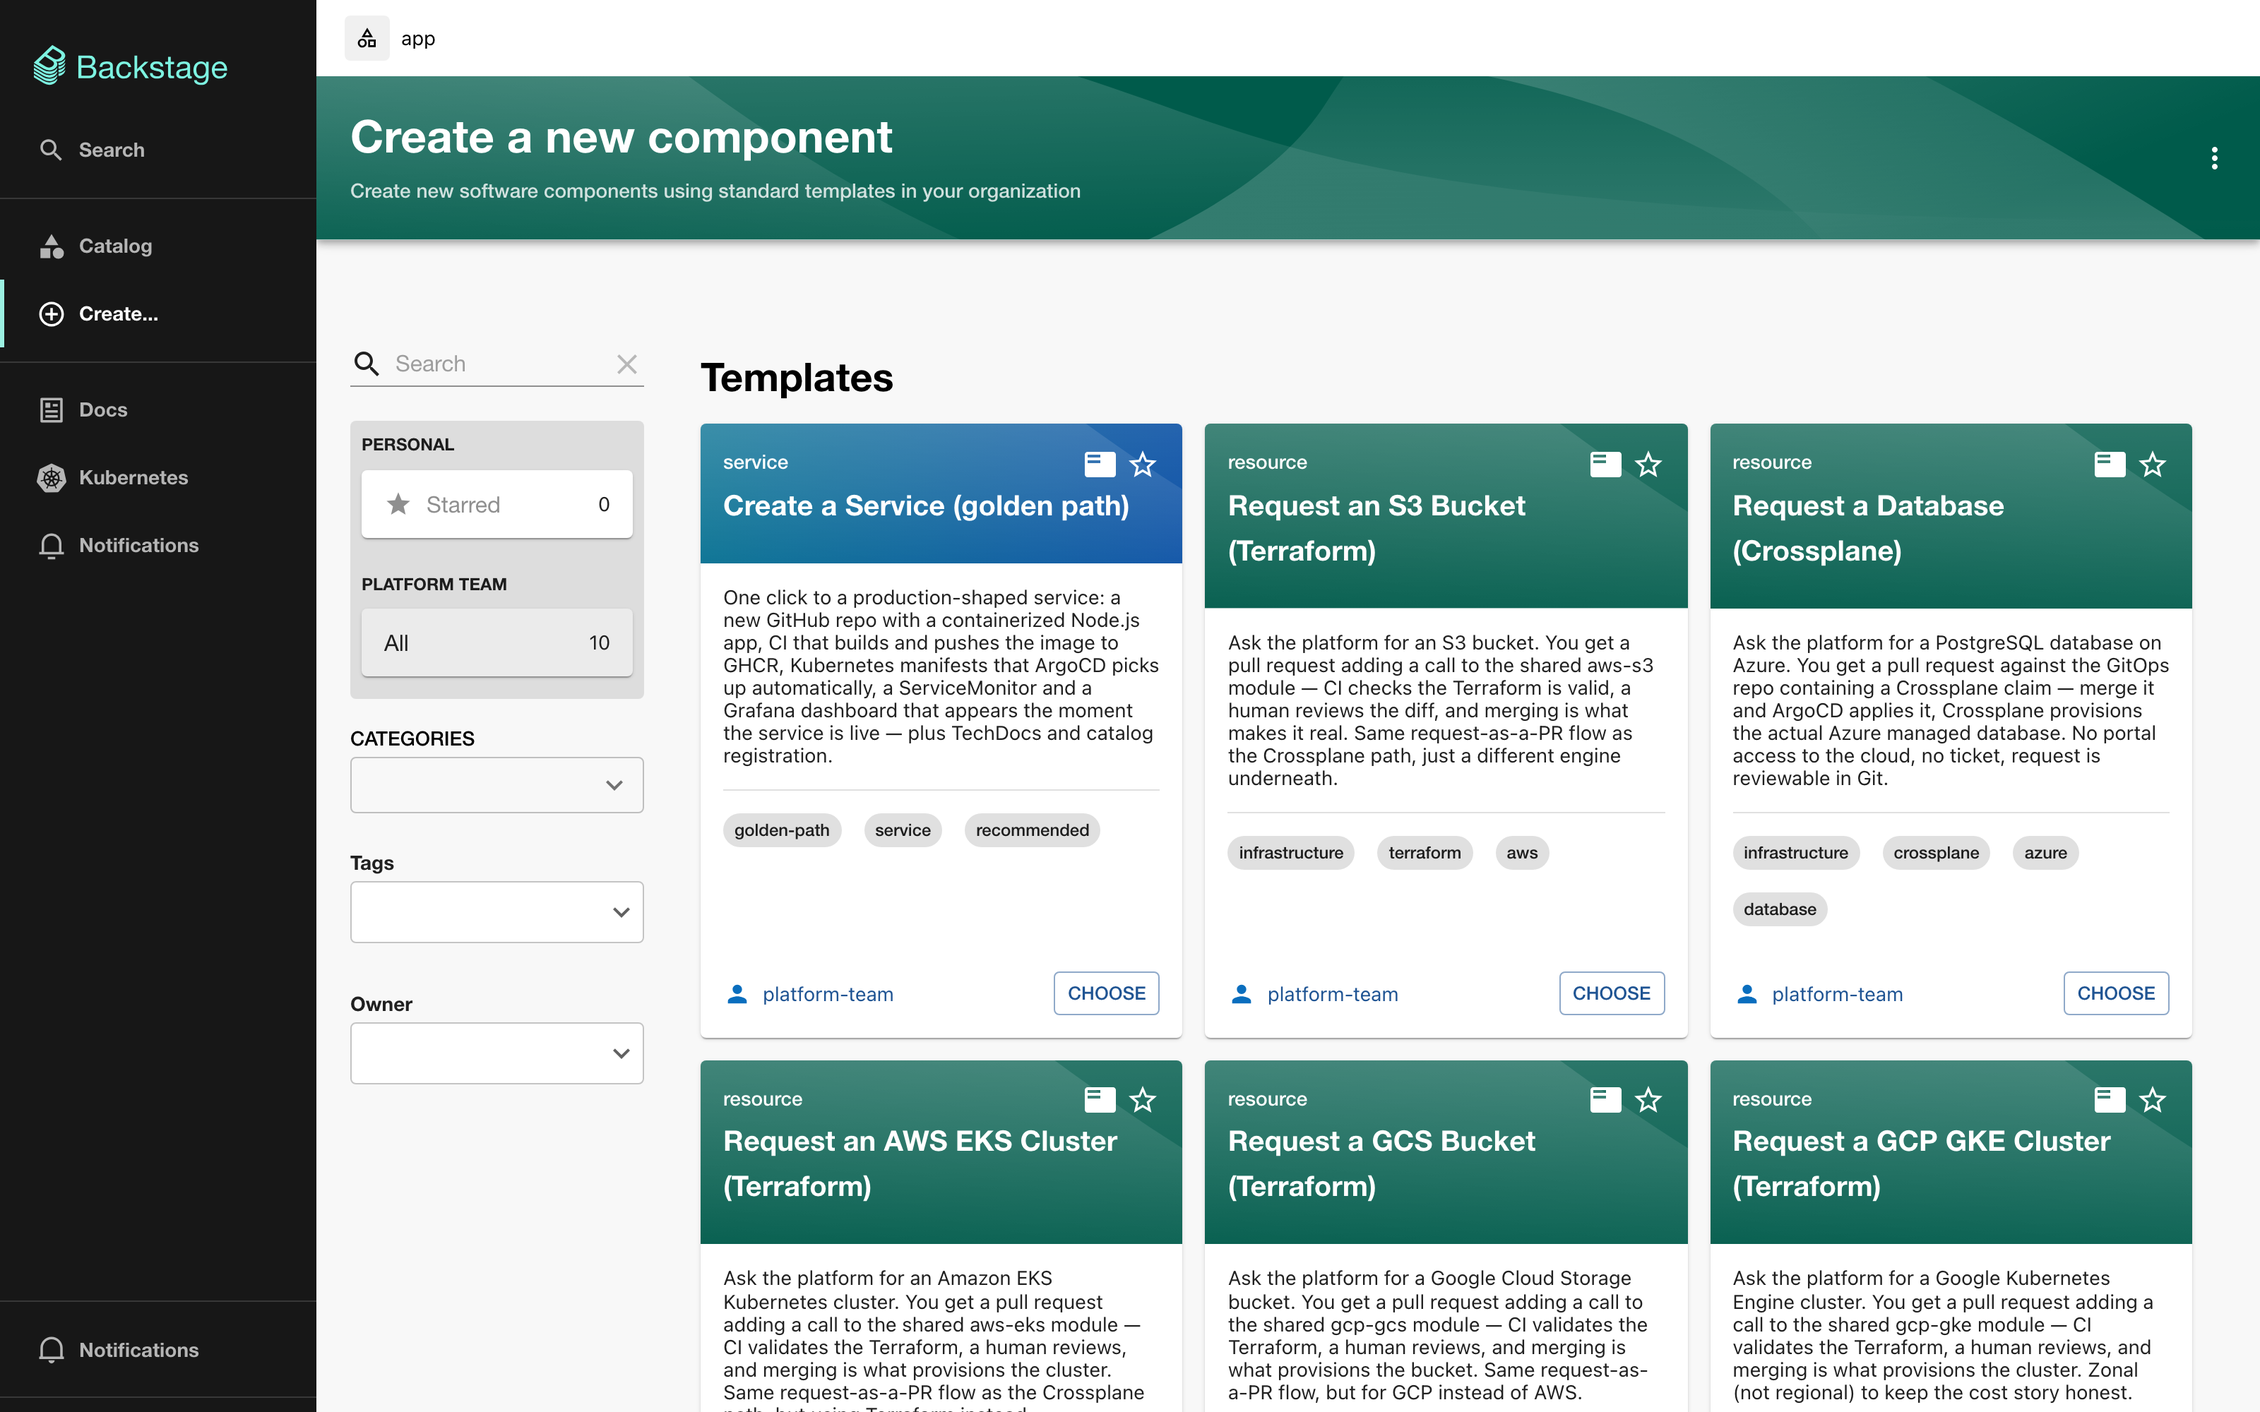
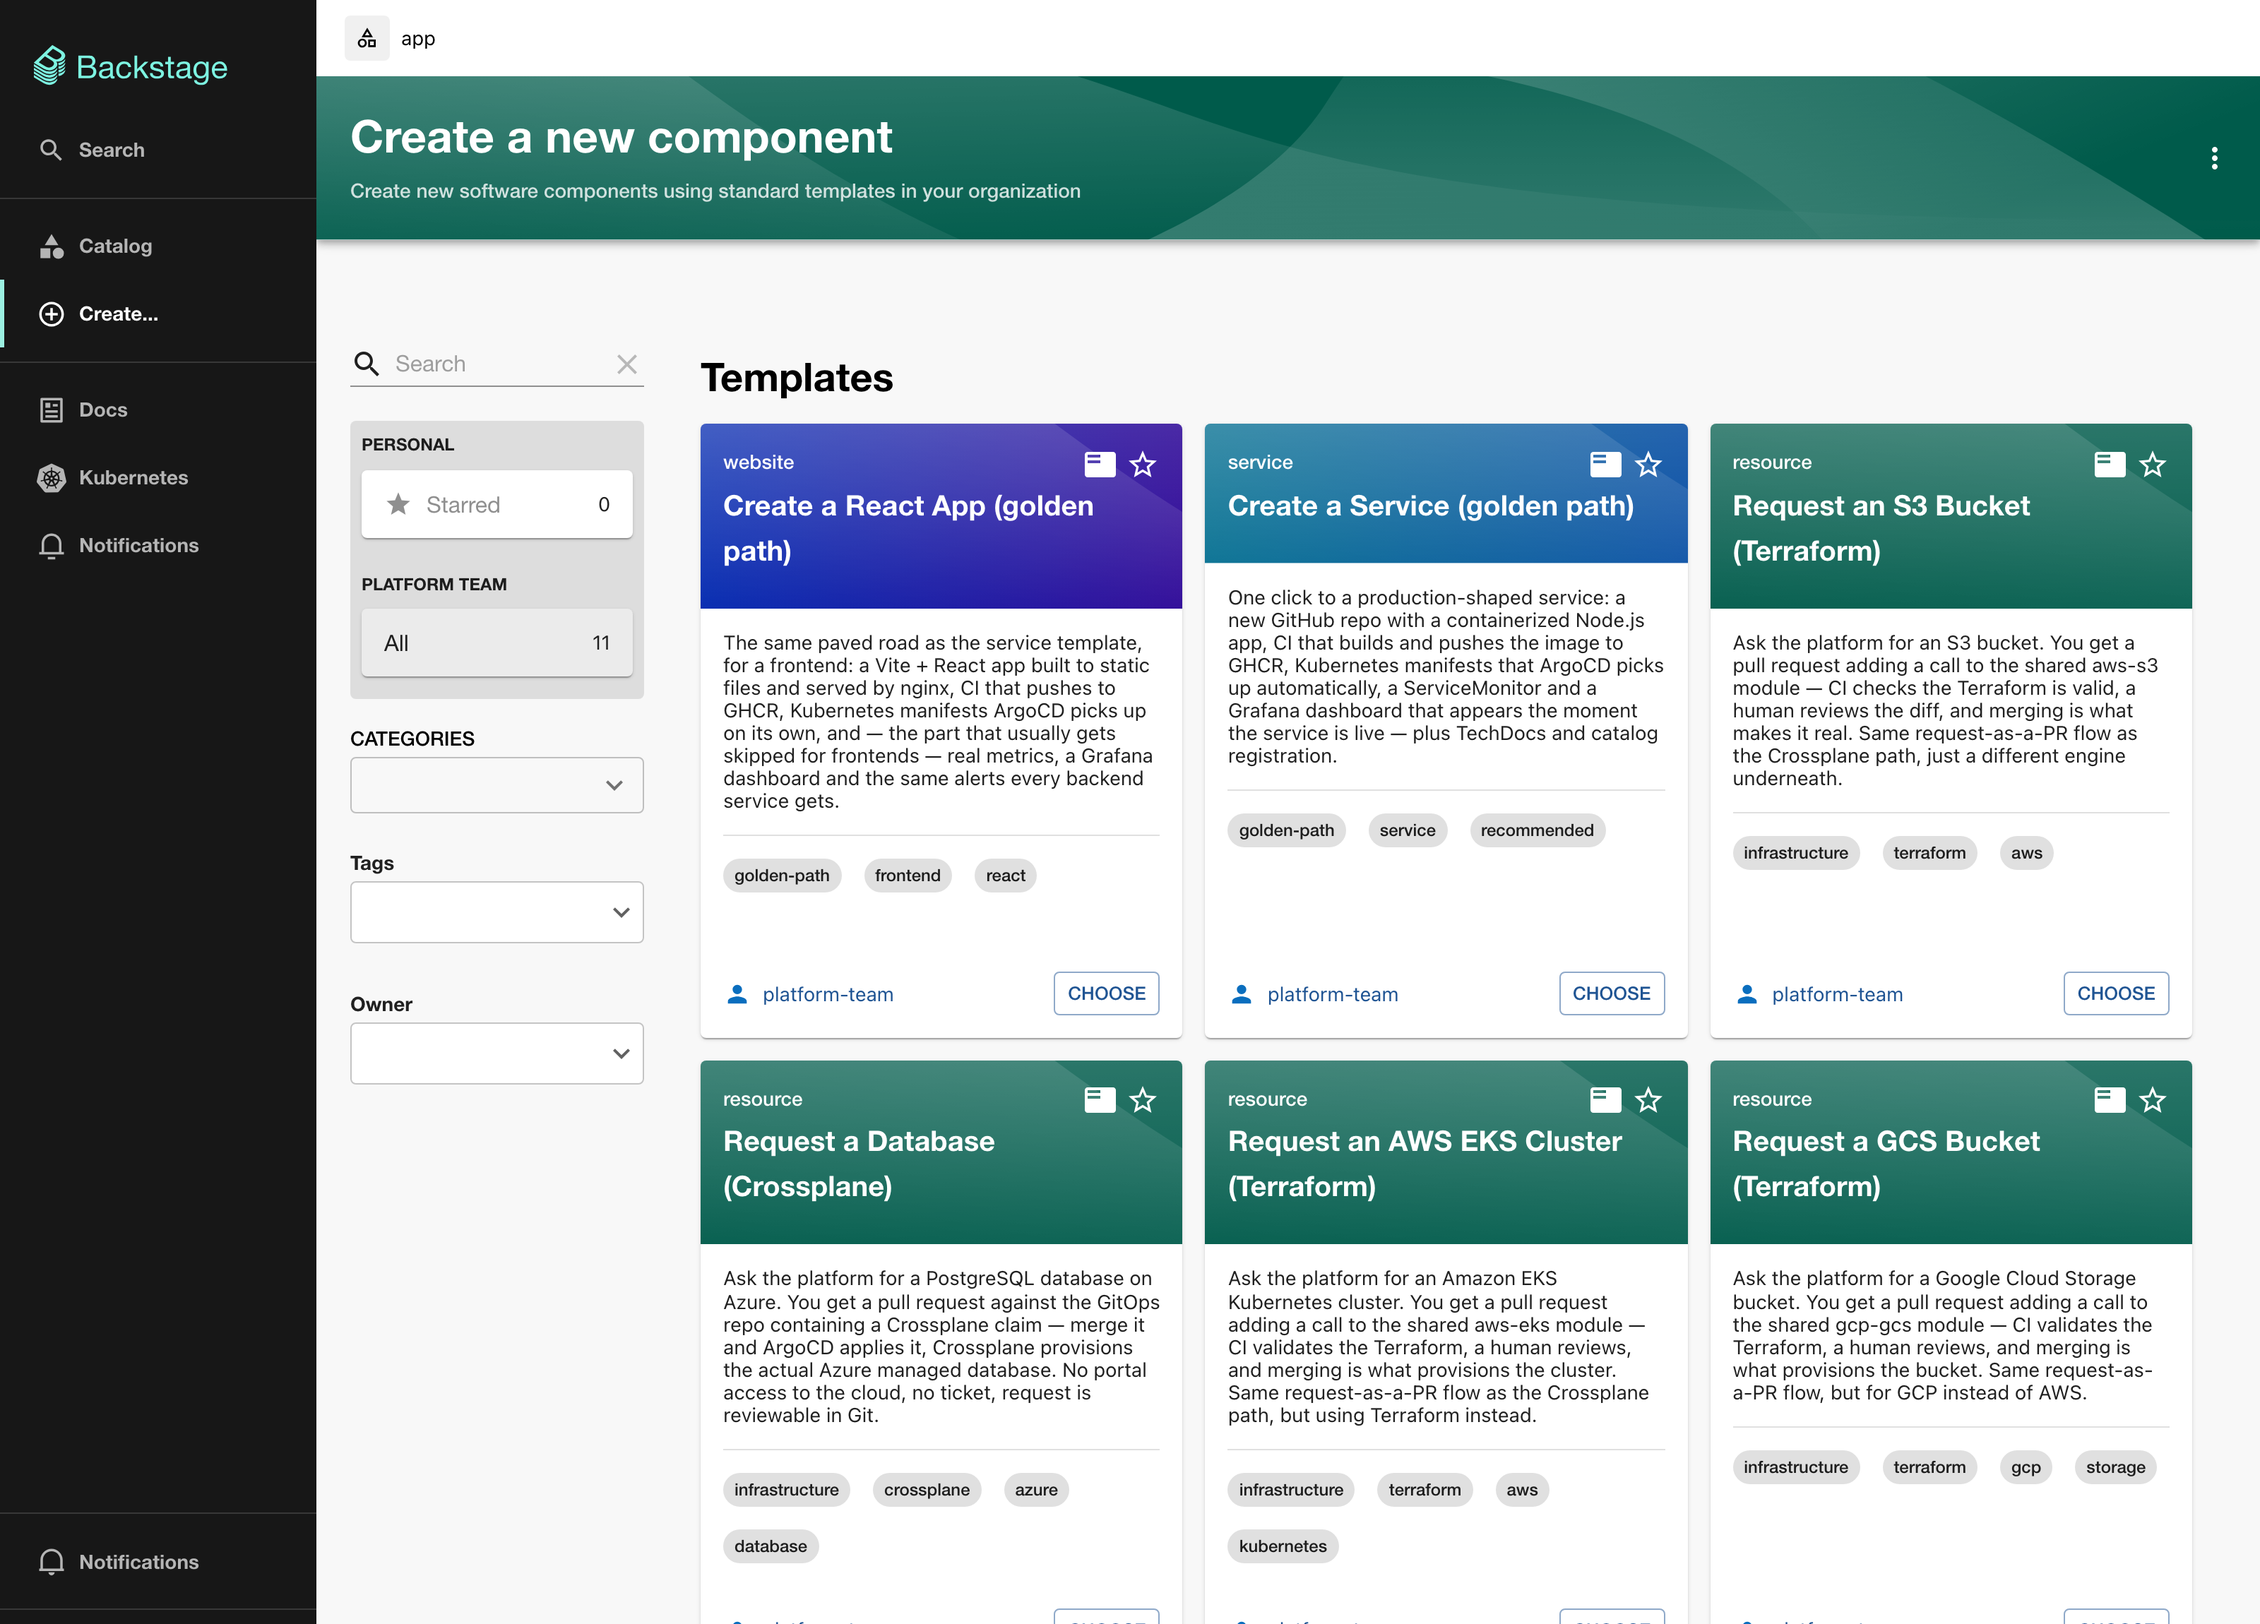
readme + screenshot for the react golden path

diff --git a/README.md b/README.md
@@ -1,8 +1,8 @@
 # backstage-idp
 
-The portal side of the platform. One template creates a running service, the
-rest request infrastructure — Crossplane claims on the Azure side, Terraform
-module calls for AWS and GCP.
+The portal side of the platform. Two golden paths create running apps — a
+backend service and a React frontend — and the rest request infrastructure:
+Crossplane claims on the Azure side, Terraform module calls for AWS and GCP.
 
 Companion repos:
 [idp-gitops](https://github.com/efekaya-devops/idp-gitops) (cluster, argocd, monitoring) ·
@@ -17,7 +17,7 @@ full index in **[assets/](assets/)**.
 | | |
 |---|---|
 | ![the portal's template list](assets/backstage-create.png) | ![services in the catalog](assets/backstage-catalog.png) |
-| **The portal.** Ten templates: one golden path, nine ways to ask for infrastructure. | **The catalog.** Services register themselves, owner and all. |
+| **The portal.** Eleven templates: two golden paths, nine ways to ask for infrastructure. | **The catalog.** Services register themselves, owner and all. |
 | ![requested infrastructure in the catalog](assets/backstage-resources.png) | ![argocd applications](assets/argocd-apps.png) |
 | **Infrastructure is catalogued too.** Everything a team asked for, with an owner — not just the services. | **ArgoCD.** Every app synced and healthy, including a team's own claims. |
 | ![argocd resource tree](assets/argocd-tree.png) | ![grafana dashboard](assets/grafana-dashboard.png) |
@@ -30,6 +30,7 @@ full index in **[assets/](assets/)**.
 | Template | Produces | Who applies it |
 |---|---|---|
 | `create-service` | a **new github repo** — node app, dockerfile, CI, k8s manifests, servicemonitor, grafana dashboard, techdocs | argocd, on its own |
+| `create-react-app` | same, but a **vite + react** app served by nginx, with an exporter sidecar so a frontend still gets metrics, a dashboard and alerts | argocd, on its own |
 | `request-resource-group` | a **pull request** on team-alpha adding a Crossplane claim | argocd, once merged |
 | `request-database` | same, a PostgreSQL server + db claim | argocd, once merged |
 | `request-keyvault` | same, a Key Vault claim | argocd, once merged |

diff --git a/assets/README.md b/assets/README.md
@@ -6,7 +6,7 @@ raw URL.
 
 | file | what it shows |
 |---|---|
-| `backstage-create.png` | all ten templates in the portal — one golden path, nine infra requests |
+| `backstage-create.png` | all eleven templates — two golden paths, nine infra requests |
 | `backstage-catalog.png` | scaffolded services registered in the catalog |
 | `backstage-resources.png` | requested infrastructure on the catalog as Resources, owned by the team that asked |
 | `argocd-apps.png` | every application synced and healthy, including a team's claims |
